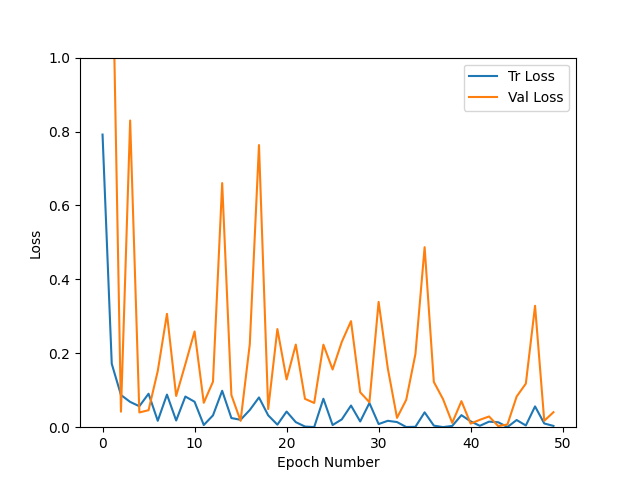
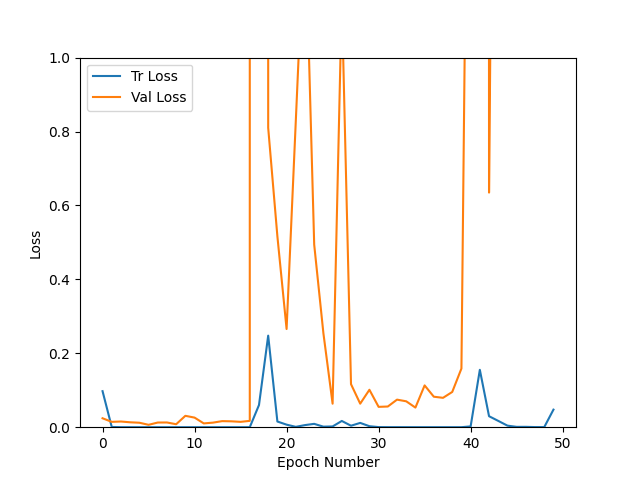
retrain

Changed region(s): [[0.125, 0.125, 0.9062, 0.9062]]

diff --git a/main.py b/main.py
@@ -18,7 +18,7 @@ from utils.check_mkdir import chk_mk_model
 from utils.saved_path_gen import savedpathgen
 
 
-def train_and_valid(model, loss_function, optimizer, net_in, epochs, train_data_size, valid_data_size):
+def train_and_valid(model, loss_function, optimizer, net_in, num_begin,epochs, train_data_size, valid_data_size):
     device = torch.device("cuda:0")
     history = []
     best_acc = 0.0
@@ -26,7 +26,7 @@ def train_and_valid(model, loss_function, optimizer, net_in, epochs, train_data_
 
     for epoch in range(epochs):
         epoch_start = time.time()
-        print("\nEpoch: {}/{}".format(epoch + 1, epochs))
+        print("\nEpoch: {}/{}".format(num_begin+epoch + 1, num_begin+epochs))
 
         model.train()
 
@@ -36,7 +36,6 @@ def train_and_valid(model, loss_function, optimizer, net_in, epochs, train_data_
         valid_acc = 0.0
 
         for i, (inputs, labels) in tqdm(enumerate(train_data)):
-            # print(labels)
             inputs = inputs.to(device)
             labels = labels.to(device)
 
@@ -44,6 +43,7 @@ def train_and_valid(model, loss_function, optimizer, net_in, epochs, train_data_
             optimizer.zero_grad()
 
             outputs = model(inputs)
+            # print('outputs',outputs)
 
             loss = loss_function(outputs, labels)
 
@@ -54,6 +54,8 @@ def train_and_valid(model, loss_function, optimizer, net_in, epochs, train_data_
             train_loss += loss.item() * inputs.size(0)
 
             ret, predictions = torch.max(outputs.data, 1)
+            # print('\nlabels     ', labels)
+            # print('predictions', predictions)
             correct_counts = predictions.eq(labels.data.view_as(predictions))
 
             acc = torch.mean(correct_counts.type(torch.FloatTensor))
@@ -74,7 +76,9 @@ def train_and_valid(model, loss_function, optimizer, net_in, epochs, train_data_
 
                 valid_loss += loss.item() * inputs.size(0)
 
-                ret, predictions = torch.max(outputs.data, 1)
+                ret, predictions = torch.max(outputs.data, dim=1)
+                # print('\nlabels     ', labels)
+                # print('predictions', predictions)
                 correct_counts = predictions.eq(labels.data.view_as(predictions))
 
                 acc = torch.mean(correct_counts.type(torch.FloatTensor))
@@ -91,45 +95,48 @@ def train_and_valid(model, loss_function, optimizer, net_in, epochs, train_data_
 
         if best_acc < avg_valid_acc:
             best_acc = avg_valid_acc
-            best_epoch = epoch + 1
+            best_epoch = num_begin+epoch + 1
 
         epoch_end = time.time()
 
         print(
             "Epoch: {:03d}, Training: Loss: {:.5f}, Accuracy: {:.4f}%, \n\t\tValidation: Loss: {:.5f}, Accuracy: {:.4f}%, Time: {:.4f}s".format(
-                epoch + 1, avg_train_loss, avg_train_acc * 100, avg_valid_loss, avg_valid_acc * 100,
+                num_begin+epoch + 1, avg_train_loss, avg_train_acc * 100, avg_valid_loss, avg_valid_acc * 100,
                 epoch_end - epoch_start
             ))
         print("Best Accuracy for validation : {:.5f} at epoch {:03d}".format(best_acc, best_epoch))
 
-        torch.save(model, 'models_saved/' + net_in + '/TL{:.7f}_TA{:.1f}_VL{:.7f}_VA{:.1f}_EP'.format(
+        torch.save(model, 'models_saved/' + net_in + '/TL{:.7f}_TA{:.3f}_VL{:.5f}_VA{:.1f}_EP'.format(
             avg_train_loss, avg_train_acc * 100, avg_valid_loss, avg_valid_acc * 100
-        ) + str(epoch + 1) + '.pt')
+        ) + str(num_begin+epoch + 1) + '.pt')
     return model, history
 
 
 os.environ['CUDA_VISIBLE_DEVICES'] = '0'
 torch.set_num_threads(1)  # 减少cpu的占用率
+
+
 image_transforms = {
     'train': transforms.Compose([
-        transforms.RandomResizedCrop(size=256, scale=(0.8, 1.0)),
+        # transforms.RandomResizedCrop(size=512, scale=(0.8, 1.0)),
         # transforms.RandomRotation(degrees=15),
+        transforms.Resize(size=(256)),
         # transforms.RandomHorizontalFlip(),
-        transforms.CenterCrop(size=224),
+        transforms.CenterCrop(size=256),
         transforms.ToTensor(),
         # transforms.Normalize([0.485, 0.456, 0.406],
         #                       [0.229, 0.224, 0.225])
     ]),
     'valid': transforms.Compose([
-        transforms.Resize(size=256),
-        transforms.CenterCrop(size=224),
+        transforms.Resize(size=(256)),
+        transforms.CenterCrop(size=256),
         transforms.ToTensor(),
         # transforms.Normalize([0.485, 0.456, 0.406],
         #                       [0.229, 0.224, 0.225])
     ])
 }
 
-batch_size = 64
+batch_size = 32
 num_classes = 5
 
 data_path = 'data_cardio'
@@ -148,11 +155,19 @@ val_size = len(dataset['valid'])
 train_data = DataLoader(dataset['train'], batch_size=batch_size, shuffle=True)
 valid_data = DataLoader(dataset['valid'], batch_size=batch_size, shuffle=True)
 
-net_name = 'resnet18'
+net_name = 'resnext50_32x4d'
 pretrained = True
-model_now = model_builder_classification(net_name, num_classes, pretrained)
+isretrain = True
+retrain_mod_name = 'TL0.0010272_TA99.972_VL0.03416_VA98.6_EP9'
+model_saved_path = savedpathgen(pretrained, net_name)
 
-model_saved_path = savedpathgen(pretrained,net_name)
+
+if isretrain:
+    numbegin = int(retrain_mod_name.split('EP')[1])
+    model_now = torch.load('./models_saved/' + model_saved_path + '/' + retrain_mod_name + '.pt')
+else:
+    model_now = model_builder_classification(net_name, num_classes, pretrained)
+
 
 model_now = model_now.to('cuda:0')
 
@@ -162,22 +177,23 @@ optimizer = optim.Adam(model_now.parameters())
 num_epochs = 50
 
 chk_mk_model(model_saved_path)
-trained_model, history = train_and_valid(model_now, loss_func, optimizer, model_saved_path, num_epochs, trn_size, val_size)
+trained_model, history = train_and_valid(model_now, loss_func, optimizer, model_saved_path, numbegin, num_epochs, trn_size,
+                                         val_size)
 torch.save(history, './models_saved/' + model_saved_path + '/history.pt')
 
-history = np.array(history)
-plt.plot(history[:, 0:2])
-plt.legend(['Tr Loss', 'Val Loss'])
-plt.xlabel('Epoch Number')
-plt.ylabel('Loss')
-plt.ylim(0, 1)
-plt.savefig('_loss_curve.png')
-plt.show()
-
-plt.plot(history[:, 2:4])
-plt.legend(['Tr Accuracy', 'Val Accuracy'])
-plt.xlabel('Epoch Number')
-plt.ylabel('Accuracy')
-plt.ylim(0, 1)
-plt.savefig('_accuracy_curve.png')
-plt.show()
+# history = np.array(history)
+# plt.plot(history[:, 0:2])
+# plt.legend(['Tr Loss', 'Val Loss'])
+# plt.xlabel('Epoch Number')
+# plt.ylabel('Loss')
+# plt.ylim(0, 1)
+# plt.savefig('_loss_curve.png')
+# plt.show()
+#
+# plt.plot(history[:, 2:4])
+# plt.legend(['Tr Accuracy', 'Val Accuracy'])
+# plt.xlabel('Epoch Number')
+# plt.ylabel('Accuracy')
+# plt.ylim(0, 1)
+# plt.savefig('_accuracy_curve.png')
+# plt.show()

diff --git a/net_lib/model_builder.py b/net_lib/model_builder.py
@@ -6,7 +6,7 @@ from net_lib.classifation_end import CLS_end
 
 
 def isintorchvision(netname_in):
-    return netname_in in ['resnet18','resnet50','resnet152']
+    return netname_in in ['resnet18','resnet50','resnet152','resnext101_32x8d','resnext50_32x4d']
 
 def isinmodifiedmodels(netname_in):
     return netname_in in ['resnet18_2332']
